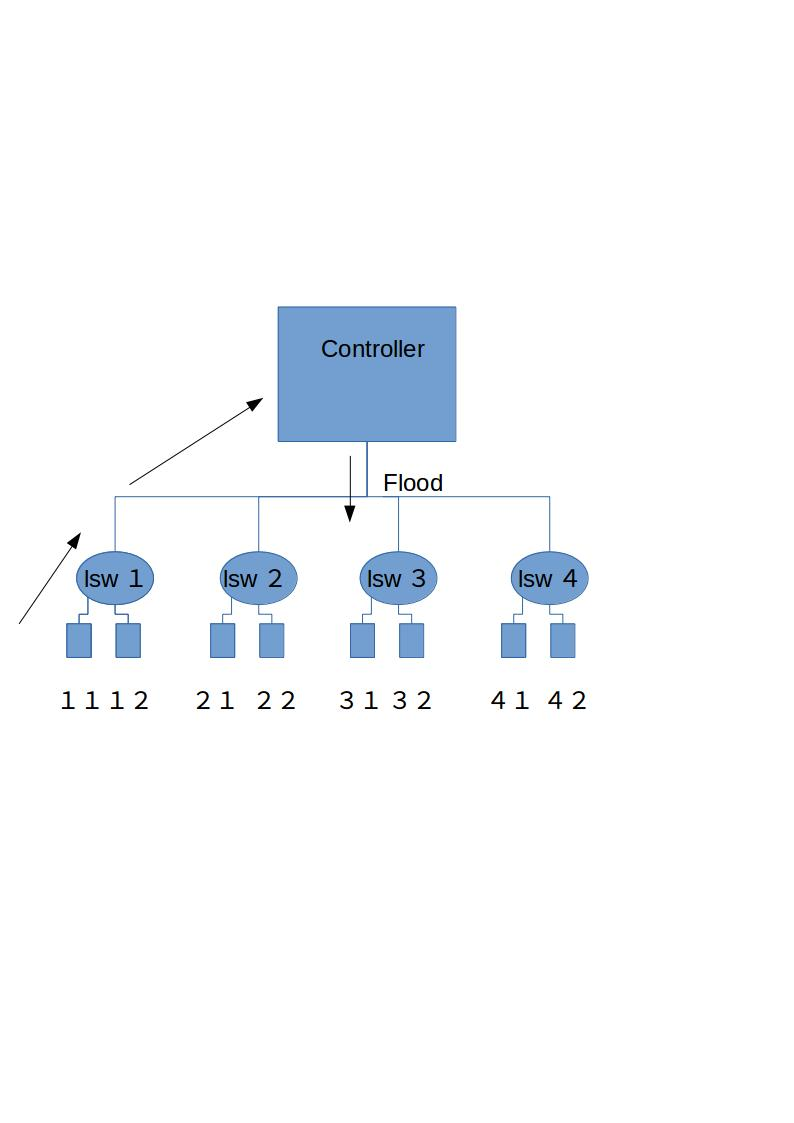
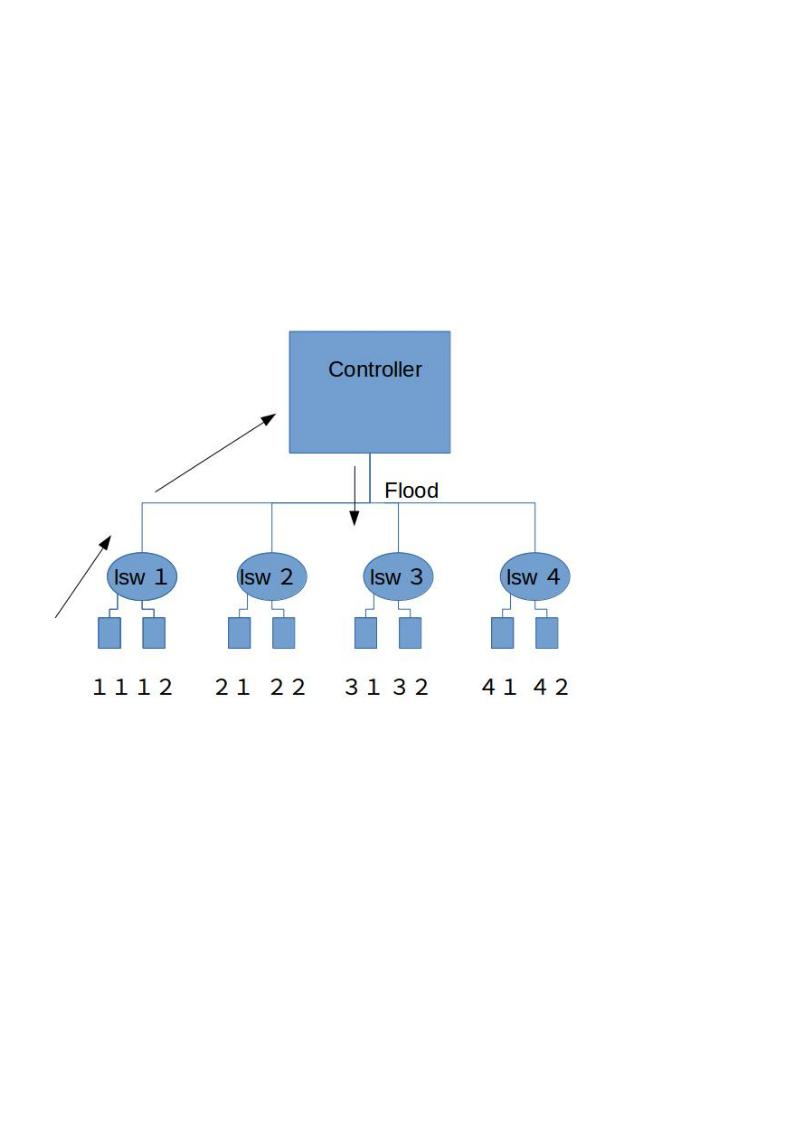
a

Changed region(s): [[0.0605, 0.2493, 0.7557, 0.6233], [0.4232, 0.4987, 0.5743, 0.6233], [0.272, 0.374, 0.3023, 0.4052]]

diff --git a/Report_Learning_switch.md b/Report_Learning_switch.md
@@ -156,7 +156,7 @@ root@Jens-Oetjen-PC:/home/jens/Desktop/lesson2/switch2/learning_switch# trema du
  The following (extremely ugly) diagram illustrates what is happening:
  
 <p align="center">
-  <img src="graphicfirst.jpg" width="550"/>
+  <img src="graphicfirst.jpg" width="650"/>
   </p>
 
  
@@ -177,6 +177,10 @@ Packets received:
   192.168.0.1 -> 192.168.0.2 = 10 packets
 root@Jens-Oetjen-PC:/home/jens/Desktop/lesson2/switch2/learning_switch# trema dump_flows lsw1cookie=0x0, duration=40.575s, table=0, n_packets=9, n_bytes=378, idle_age=40, priority=65535,udp,in_port=2,vlan_tci=0x0000,dl_src=fc:11:59:cf:cb:18,dl_dst=de:1d:ae:6d:d6:dd,nw_src=192.168.0.2,nw_dst=192.168.0.1,nw_tos=0,tp_src=0,tp_dst=0 actions=output:1
    ```
+ Illustration:
  
+ <p align="center">
+  <img src="graphicsecond.jpg" width="650"/>
+  </p>
 
 	
